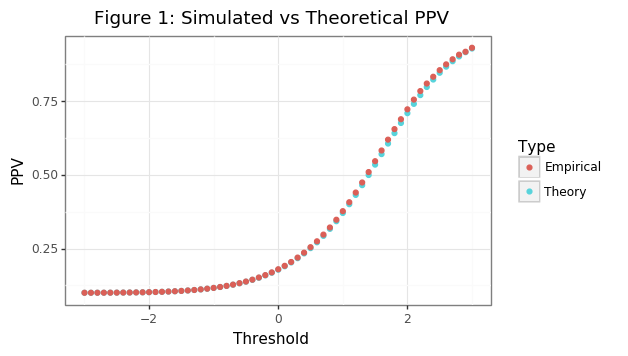
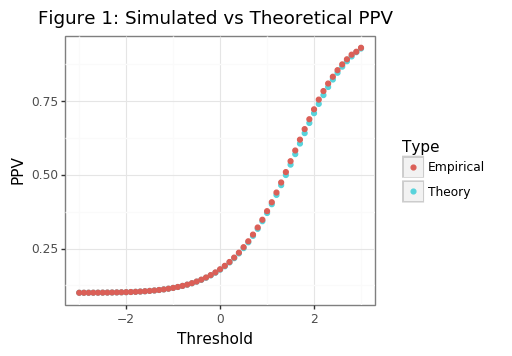
applying cleaner

diff --git a/_rmd/extra_reit/fix_kramdown.py b/_rmd/extra_reit/fix_kramdown.py
@@ -4,7 +4,7 @@ REPLACE ALL $...$ WITH \\(...\\)
 
 import os
 import pandas as pd
-import re
+from datetime import datetime
 
 dir_base = os.getcwd()
 dir_posts = os.path.join(dir_base, '..', '..', '_posts')
@@ -13,9 +13,11 @@ if not os.path.exists(dir_output):
     os.mkdir(dir_output)
 
 fn_posts = pd.Series(os.listdir(dir_posts))
-fn_posts = fn_posts[fn_posts.str.contains('^[0-9]')].to_list()
+fn_posts = fn_posts[fn_posts.str.contains('^[0-9]')]
+date_posts = pd.to_datetime(fn_posts.str.split('\\-[A-Za-z]',1,True).iloc[:,0])
+yy_mm = pd.to_datetime('2020-09-01') #str(datetime.today().year)+'-'+str(datetime.today().month)+'-01'
+fn_posts = fn_posts[date_posts >= yy_mm].to_list()
 
-holder = []
 for ii, fn in enumerate(fn_posts):
     print('Post: %s (%i of %i)' % (fn, ii+1, len(fn_posts)))
     connection = open(os.path.join(dir_posts, fn), 'r')
@@ -33,7 +35,6 @@ for ii, fn in enumerate(fn_posts):
                 lines[kk] = eq.replace('\\label', rep)
             else:
                 print('Already has tag')
-
     # Remove double $ dollars temporarily
     lines = lines.str.replace('\\${2}', '@@')
     # Replace currency dollar signs

diff --git a/_rmd/extra_BCa/bca_python.md b/_rmd/extra_BCa/bca_python.md
@@ -1,11 +1,4 @@
----
-title: "Implementing the bias-corrected and accelerated bootstrap in Python"
-output: html_document
-fontsize: 12pt
-published: true
-status: publish
-mathjax: true
----
+# Implementing the BCa Bootstrapping in Python
 
 The [bootstrap](https://en.wikipedia.org/wiki/Bootstrapping_(statistics)) is a powerful tool for carrying out inference on statistics whose distribution is unknown. The non-parametric version of the bootstrap obtains variation around the point estimate of a statistic by randomly resampling the data with replacement and recalculating the bootstrap-statistic based on these resamples. This simulated distribution can be used to obtain (close-to) valid frequentist inference measures like p-values and confidence intervals (CIs). This post will show how to implement the bias-corrected and accelerated ([BCa](https://www.tandfonline.com/doi/abs/10.1080/01621459.1987.10478410)) bootstrap to calculate either one and two-sided CIs. A good discussion of bootstrapped p-values can be found [here](http://qed.econ.queensu.ca/working_papers/papers/qed_wp_1127.pdf). Nathaniel Helwig's excellent class [notes](http://users.stat.umn.edu/~helwig/notes/bootci-Notes.pdf) are used or paraphrased throughout this post.
 
@@ -15,9 +8,9 @@ The motivating example for this post will be to estimate the threshold for deter
 
 # (1) Background
 
-To begin I'll establish the notation that will be used through the rest of the post. Define the statistic of interest as \\(\theta = s(X)\\), where \\(X_i \sim F\\) from IID draws. The statistic \\(s\\) can be anything like the mean, median, skew, PPV, etc. Of course, if we knew the cdf \\(F\\), one could simply sample from it and estimate \\(\theta\\) by appealing to the law of large numbers. However researchers almost never know the distribution the data comes from, and if they do, the exact parameters of the distribution are unknown. Instead we can use an empirical draw of the data: \\(\hat{X} = (X_1, \dots, X_n)\\) to approximate the actual CDF: \\(\hat{F}(\hat{X} \leq x) \approx F(X \leq x)\\). From the [Glivenko-Cantelli theorem](https://en.wikipedia.org/wiki/Glivenko%E2%80%93Cantelli_theorem) we know that as \\(n \to \infty\\), the empirical CDF (ECDF) approaches the true CDF.
+To begin I'll establish the notation that will be used through the rest of the post. Define the statistic of interest as $\theta = s(X)$, where $X_i \sim F$ from IID draws. The statistic $s$ can be anything like the mean, median, skew, PPV, etc. Of course, if we knew the cdf $F$, one could simply sample from it and estimate $\theta$ by appealing to the law of large numbers. However researchers almost never know the distribution the data comes from, and if they do, the exact parameters of the distribution are unknown. Instead we can use an empirical draw of the data: $\hat{X} = (X_1, \dots, X_n)$ to approximate the actual CDF: $\hat{F}(\hat{X} \leq x) \approx F(X \leq x)$. From the [Glivenko-Cantelli theorem](https://en.wikipedia.org/wiki/Glivenko%E2%80%93Cantelli_theorem) we know that as $n \to \infty$, the empirical CDF (ECDF) approaches the true CDF.
 
-Using the ECDF from a given draw of data as an estimate of \\(F\\), means using the CDF of a discrete random variable. This non-parametric approximation naturally creates some estimation error, but for a reasonably sized \\(n\\) it will be small. When  bootstrapping is referred to "sampling with replacement", it is actually referring to sampling from the ECDF. Since this is a discrete distribution it means that some values can be sampled more than once. Draws for the ECDF, or bootstrapped samples, will be denoted as follows:
+Using the ECDF from a given draw of data as an estimate of $F$, means using the CDF of a discrete random variable. This non-parametric approximation naturally creates some estimation error, but for a reasonably sized $n$ it will be small. When  bootstrapping is referred to "sampling with replacement", it is actually referring to sampling from the ECDF. Since this is a discrete distribution it means that some values can be sampled more than once. Draws for the ECDF, or bootstrapped samples, will be denoted as follows:
 
 $$
 \begin{align*}
@@ -27,18 +20,18 @@ X_1^*, \dots, X_n^* &\sim \hat{F}  \\
 \end{align*}
 $$
 
-The PPV is the ratio of the true positive rate (TPR) to the predicted positive rate (which includes the false positive rate (FPR)), weighted by the prevalence of the binary outcome: \\(\mu_y = E[y==1]\\). In this post we will assume that the scores of the classifier come from a normal distribution: \\(x|y=i \sim N(\mu_i,\sigma_i^2)\\), for \\(i=[1,2]\\). The distribution for the ground-truth PPV will be smooth and monotonically increasing over \\(t\\) since \\(\mu_y\\) is fixed, as defined by \eqref{eq:PPV_true}. However, its empirical estimate will necessarily by discontinuous, and not even necessarily monotonic! This is because the count of the number of TPs and FPs is used rather than the theoretical CDF and prevalence. Note that \\(\Phi\\) refers to the standard normal CDF.
+The PPV is the ratio of the true positive rate (TPR) to the predicted positive rate (which includes the false positive rate (FPR)), weighted by the prevalence of the binary outcome: $\mu_y = E[y==1]$. In this post we will assume that the scores of the classifier come from a normal distribution: $x|y=i \sim N(\mu_i,\sigma_i^2)$, for $i=[1,2]$. The distribution for the ground-truth PPV will be smooth and monotonically increasing over $t$ since $\mu_y$ is fixed, as defined by \eqref{eq:PPV_true}. However, its empirical estimate will necessarily by discontinuous, and not even necessarily monotonic! This is because the count of the number of TPs and FPs is used rather than the theoretical CDF and prevalence. Note that $\Phi$ refers to the standard normal CDF.
 
 $$
 \begin{align*}
-\text{PPV}_\Phi(t) &= \frac{\Phi_1(t)\cdot\mu_y}{\Phi_1\cdot\mu_y + \Phi_0\cdot(1-\mu_y)} \tag{1}\label{eq:PPV_true} \\
+\text{PPV}_\Phi(t) &= \frac{\Phi_1(t)\cdot\mu_y}{\Phi_1\cdot\mu_y + \Phi_0\cdot(1-\mu_y)} \label{eq:PPV_true} \\
 \Phi_1(t) &= \Phi([\mu_1 - t]/\sigma_1), \hspace{3mm} \Phi_0(t) = \Phi([\mu_0 - t]/\sigma_0) \\
 \hat{\text{PPV}}(t) &= \frac{NTP(t)}{NTP(t) + NFP(t)} \\
 NTP(t) &= \sum_{i: y_i =1} y_i \geq t, \hspace{3mm} NFP(t) = \sum_{i: y_i =0} y_i \geq t
 \end{align*}
 $$
 
-The codeblock below loads in the necessary modules and shows that the theoretical PPV aligns with the average empirical PPV across different thresholds (\\(t\\)).
+The codeblock below loads in the necessary modules and shows that the theoretical PPV aligns with the average empirical PPV across different thresholds ($t$).
 
 
 ```python
@@ -110,7 +103,7 @@ for ii in range(nsim):
     
 df_sim = pd.DataFrame({'thresh':thresh_seq, 'theory':theory_seq, 'emp':np.nanmean(mat,0)}).melt('thresh',None,'tt')
 
-plotnine.options.figure_size = (5.5, 3.5)
+plotnine.options.figure_size = (4, 3.5)
 gg_theory = (ggplot(df_sim, aes(x='thresh', y='value', color='tt')) + theme_bw() + 
             geom_point() + labs(x='Threshold', y='PPV') + 
             ggtitle('Figure 1: Simulated vs Theoretical PPV') + 
@@ -125,33 +118,48 @@ yy, xx = tuple(df_ex.query('ppv<0.4').tail(1).values.flatten())
 yend, xend = tuple(df_ex.query('ppv>0.4').head(1).values.flatten())
 xstar = (0.4-yy)/((yend - yy)/(xend - xx))+xx
 
-plotnine.options.figure_size = (5,3.5)
+plotnine.options.figure_size = (4,3.5)
 gg_ppv_ex = (ggplot(df_ex.query('thresh>0.5 & thresh<1.5 & ppv>0.25 & ppv<0.5 & ppv!=0.4'),aes(x='thresh',y='ppv')) + 
              theme_bw() + geom_step() + 
             labs(x='Threshold', y='PPV') + 
-            ggtitle('Figure 2: Example of empirical PPV interpolation for 40% PPV target') + 
+            ggtitle('Figure 2: Empirical PPV interpolation (40% PPV target)') + 
             geom_segment(x=xx,xend=xend,y=yy,yend=yend,color='red') + 
             geom_hline(yintercept=0.4,color='blue',linetype='--') + 
             geom_vline(xintercept=xstar,color='darkgreen',linetype='--'))
 print(gg_ppv_ex)
 ```
 
-<p align="center"><img src="/figures/bca_python_1_0.png" width="75%"></p>
-<p align="center"><img src="/figures/bca_python_1_2.png" width="75%"></p>
+
+    
+![png](bca_python_files/bca_python_1_0.png)
+    
+
+
+    <ggplot: (8766715431621)>
+
+
+
+    
+![png](bca_python_files/bca_python_1_2.png)
+    
+
+
+    <ggplot: (8766715866737)>
+
 
 Though the asymptotic PPV curve is smooth (see Figure 1), the empirical PPV has is non-smooth (as Figure 2 shows). Our statistic of interest will be the value of the threshold that is needed to meet a targeted PPV. For the PPV curve, this amounts to the following:
 
 $$
 \begin{align*}
-t^*(p) &= \Big\{\inf_t : PPV(t)=p  \Big\} \tag{2}\label{eq:tstar}
+t^*(p) &= \Big\{\inf_t : PPV(t)=p  \Big\} \label{eq:tstar}
 \end{align*}
 $$
 
 Note that we want \eqref{eq:tstar} to find the infimum of thresholds since if there are two distinct thresholds that obtain the same PPV, the smaller one will have a higher senitivity. For the empirical curve, the threshold will need to be interpolated when the targeted value cannot be found. For example, if the targeted PPV is 0.5, but the closest values we can find are PPVs of 0.49 and 0.54, for threshold values of 1 and 2, respectively, then a linear interpolation will estimate a threshold of 1.2. In the case where the targeted PPV is larger than the largest empirical PPV, an interpolation will also be used. However it is not advised to pick PPVs that are generally beyond the range of the classifier because these estimates will be noisy.
 
-The `thresh_ppv` function below also has a built-it [Jackknife](https://en.wikipedia.org/wiki/Jackknife_resampling) estimate of the statistic, since these will be required later. The Jackknife calculates the statistic by leaving one sample value, so there are \\(n\\) estimates of it. Because the empirical PPV is discrete, deleting an observation whose value is below a given threshold will not affect the PPV and hence the choice of threshold. Deleting a positive label observation whose score is at or above the threshold will necessarily lower the PPV, and so we can interpolate the new slope/intercept position to obtain the original PPV. Similarly, deleting a negative observation will make whatever the the next smallest threshold is to the current one the optimal choice.[[^1]] It is exceedingly quick therefore to approximate the leave-one-observation out statistic for the PPV. 
+The `thresh_ppv` function below also has a built-it [Jackknife](https://en.wikipedia.org/wiki/Jackknife_resampling) estimate of the statistic, since these will be required later. The Jackknife calculates the statistic by leaving one sample value, so there are $n$ estimates of it. Because the empirical PPV is discrete, deleting an observation whose value is below a given threshold will not affect the PPV and hence the choice of threshold. Deleting a positive label observation whose score is at or above the threshold will necessarily lower the PPV, and so we can interpolate the new slope/intercept position to obtain the original PPV. Similarly, deleting a negative observation will make whatever the the next smallest threshold is to the current one the optimal choice.[[^1]] It is exceedingly quick therefore to approximate the leave-one-observation out statistic for the PPV. 
 
-Note the `draw_samp` function, which draws data with replacement, can make use of the `strafify` argument. Normally one would want to make use of the variation in the label prevalence, however, since this post is inspired by a validation trial for a machine learning algorithm, it is likely that the label balance is already known with a high degree of confidence. Lastly, because there can be discontinuities in the data, the `thresh_ppv` function will always try to find the infimum of values, because we know on a statistical level the relationship should be monotonic (for reasonable assumptions about the distribution of \\(\Phi_0\\) and \\(\Phi_1\\).
+Note the `draw_samp` function, which draws data with replacement, can make use of the `strafify` argument. Normally one would want to make use of the variation in the label prevalence, however, since this post is inspired by a validation trial for a machine learning algorithm, it is likely that the label balance is already known with a high degree of confidence. Lastly, because there can be discontinuities in the data, the `thresh_ppv` function will always try to find the infimum of values, because we know on a statistical level the relationship should be monotonic (for reasonable assumptions about the distribution of $\Phi_0$ and $\Phi_1$.
 
 
 ```python
@@ -301,23 +309,35 @@ gg_bs = (ggplot(dat2_both,aes(x='value',fill='tt')) + theme_bw() + guides(color=
 print(gg_bs)
 ```
 
-<br>
-<p align="center"><img src="/figures/bca_python_5_0.png" width="90%"></p>
-<br>
-<p align="center"><img src="/figures/bca_python_5_2.png" width="100%"></p>
-<br>   
+
+    
+![png](bca_python_files/bca_python_5_0.png)
+    
+
+
+    <ggplot: (8766757080797)>
+
+
+
+    
+![png](bca_python_files/bca_python_5_2.png)
+    
+
+
+    <ggplot: (8766756878801)>
+
 
 Figure 3 shows the range of thresholds that would be chosen by the `thresh_PPV` function for PPV different targets, along with the different realizations of the empirical PPV curves. The second figure takes the last draw of the data in the simulation and shows the variation in the threshold statistics generated in that bootstrapping instance. Unsurprisingly the latter has more variation, since the empirical PPV for this data is noisier. Figure 4 compares the distribution of a bootstrap instance with those of the point estimates from the simulation. Note these distributions are not statistically comparable, since the DGP is the true variation and the bootstrap distribution only comes from one example. The inference procedures needed to obtain statistically meaningful insights from the bootstrap distribution are be described below.
 
 ## (2) Bootstrapping approaches
 
-The statistical quality of a bootstrap CI is determined by its coverage. For example, a two-sided confidence interval of level \\(1-\alpha\\)  has the "right" coverage when:
+The statistical quality of a bootstrap CI is determined by its coverage. For example, a two-sided confidence interval of level $1-\alpha$  has the "right" coverage when:
 
 $$
 P(\theta_l \leq \theta \leq  \theta_u) = c = 1-\alpha
 $$
 
-If \\(c > 1-\alpha\\), then the CI is said to be conservative because it under-rejects the true null. Though it is better to be conservative than to over-reject the null, it is still problematic because the test will have less power than expected. In the case of a one-sided CI, proper coverage will entail:
+If $c > 1-\alpha$, then the CI is said to be conservative because it under-rejects the true null. Though it is better to be conservative than to over-reject the null, it is still problematic because the test will have less power than expected. In the case of a one-sided CI, proper coverage will entail:
 
 $$
 \begin{align*}
@@ -326,9 +346,9 @@ P(\theta_u \geq \theta) &= 1-\alpha,
 \end{align*}
 $$
 
-Depending on whether it is an upper or lower bound. One-sided CIs are used when the direction of statistic is known. Using the running example of the PPV, if the researcher wants to establish that the PPV as *at least* some amount, say 50%, then it would be desirable to find a upper-bound of the threshold, \\(t_u\\) such that: \\(P(t_u \geq t^{*}(p)) = 1-\alpha\\). If \\(t_u > t^{*}(p)\\) from \eqref{eq:tstar}, then \\(PPV_\Phi(t_u) > p\\) from \eqref{eq:PPV_true}. 
+Depending on whether it is an upper or lower bound. One-sided CIs are used when the direction of statistic is known. Using the running example of the PPV, if the researcher wants to establish that the PPV as *at least* some amount, say 50%, then it would be desirable to find a upper-bound of the threshold, $t_u$ such that: $P(t_u \geq t^{*}(p)) = 1-\alpha$. If $t_u > t^{*}(p)$ from \eqref{eq:tstar}, then $PPV_\Phi(t_u) > p$ from \eqref{eq:PPV_true}. 
 
-There are several reasons why the bootstrap distribution of statistics will not provide the right coverage. First, the ECDF is an approximation of the CDF which introduces sampling error. Second, the bootstrap statistic may be biased. When the average of the bootstrapped statistics will differ in expectation to the original statistic \\(E[\bar\theta^* - \hat\theta] \neq 0\\), the bootstrap is said to be biased. This phenomenon can arise for any statistic with [finite-sample bias](https://en.wikipedia.org/wiki/Bias_of_an_estimator). Since sampling with replacement is equivalent to generating a statistic with fewer observations, finite sampling bias will be seen indirectly through this mechanism.[[^2]] Third, the distribution of a (bootstrapped) statistic may be [skewed](https://en.wikipedia.org/wiki/Skewness), which will cause symmetric CIs to be erroneous. 
+There are several reasons why the bootstrap distribution of statistics will not provide the right coverage. First, the ECDF is an approximation of the CDF which introduces sampling error. Second, the bootstrap statistic may be biased. When the average of the bootstrapped statistics will differ in expectation to the original statistic $E[\bar\theta^* - \hat\theta] \neq 0$, the bootstrap is said to be biased. This phenomenon can arise for any statistic with [finite-sample bias](https://en.wikipedia.org/wiki/Bias_of_an_estimator). Since sampling with replacement is equivalent to generating a statistic with fewer observations, finite sampling bias will be seen indirectly through this mechanism.[[^2]] Third, the distribution of a (bootstrapped) statistic may be [skewed](https://en.wikipedia.org/wiki/Skewness), which will cause symmetric CIs to be erroneous. 
 
 ### Approach #1: CI with BS-standard error
 
@@ -340,11 +360,11 @@ $$
 \end{align*}
 $$
 
-The variance of the statistic \\(\sigma\\) is simply estimated from the bootstrapped samples. Note that a student-t distribution  with \\(n-1\\) degrees of freedom is used for the quantile since the value of the standard error is estimated rather than known. The drawbacks with this approach are first that it assumes the statistic has a normal distribution, and second that it is symmetric. Many statistics (such as the PPV threshold) will neither be normal nor symmetric.
+The variance of the statistic $\sigma$ is simply estimated from the bootstrapped samples. Note that a student-t distribution  with $n-1$ degrees of freedom is used for the quantile since the value of the standard error is estimated rather than known. The drawbacks with this approach are first that it assumes the statistic has a normal distribution, and second that it is symmetric. Many statistics (such as the PPV threshold) will neither be normal nor symmetric.
 
 ### Approach #2: Quantile Bootstrap
 
-If we rank order the realizations of the bootstrap statistics: \\(\theta^*_{(1)} \leq \theta^*_{(2)} \leq \dots \leq \theta^*_{(n)}\\), then the quantile bootstrap simply returns the empirical quantiles for the \\(\alpha/2\\) and \\(1-\alpha/2\\) percentiles as the confidence intervals.
+If we rank order the realizations of the bootstrap statistics: $\theta^*_{(1)} \leq \theta^*_{(2)} \leq \dots \leq \theta^*_{(n)}$, then the quantile bootstrap simply returns the empirical quantiles for the $\alpha/2$ and $1-\alpha/2$ percentiles as the confidence intervals.
 
 $$
 \begin{align*}
@@ -366,7 +386,8 @@ $$
 \end{align*}
 $$
 
-There are two terms which need to be estimated when using the BCa: 1) the acceleration parameter \\(\hat{a}\\), and 2) the bias-correction factor \\(\hat{z}_0\\). The other terms are deterministic: (\\(\Phi\\) and \\(z_\alpha=\Phi^{-1}(\alpha)\\)). Notice if the acceleration and bias correction factors are zero, then \\(l=\alpha_1=\alpha\\) and \\(u=\alpha_2=1-\alpha\\), which is equivalent to the quantile bootstrap.[[^3]] 
+There are two terms which need to be estimated when using the BCa: 1) the acceleration parameter $\hat{a}$, and 2) the bias-correction factor $\hat{z}_0$. The other terms are deterministic: ($\Phi$ and $z_\alpha=\Phi^{-1}(
+\alpha)$). Notice if the acceleration and bias correction factors are zero, then $l=\alpha_1=\alpha$ and $u=\alpha_2=1-\alpha$, which is equivalent to the quantile bootstrap.[[^3]] 
 
 $$
 \begin{align*}
@@ -380,7 +401,7 @@ Also note that the bias correction term is a count in the median bias (rather th
 
 ## (3) Simulation of PPV CIs
 
-In this section I will define the `bootstrap` class which will carry the three bootstrap-CI approaches discussed above. A simulation will then be run using the DGP discussed above with \\(\mu_0=0\\), \\(\mu_1=2\\), and \\(\sigma_0=\sigma_1=1\\).  
+In this section I will define the `bootstrap` class which will carry the three bootstrap-CI approaches discussed above. A simulation will then be run using the DGP discussed above with $\mu_0=0$, $\mu_1=2$, and $\sigma_0=\sigma_1=1$.  
 
 
 ```python
@@ -468,6 +489,12 @@ for ii in range(nsim):
     nleft, rate = nsim-(ii+1), (ii+1)/(time() - stime)
     print('ETA: %0.1f minutes' % (nleft/rate/60))
 res = pd.concat(store).melt(['alpha','sim','tt'],None,'method')
+#res.to_csv('res.csv',index=False)
+```
+
+
+```python
+res = pd.read_csv('res.csv')
 # Get ground truth threshold for 50% PPV
 thresh_ppv50 = minimize_scalar(fun=lambda x: (PPV_theory(x, mu0, mu1, prev)-target_ppv)**2).x
 res = res.assign(ppv=lambda x: PPV_theory(x.value, mu0, mu1, prev))
@@ -502,10 +529,39 @@ gg_inf = (ggplot(res_agg,aes(x='alpha2',y='mu',color='gg',shape='gg')) + theme_b
           ggtitle('Figure 5: CI coverage for PPV threshold'))
 gg_inf
 ```
+
+    /home/edrysdale/miniconda3/lib/python3.7/site-packages/ipykernel_launcher.py:36: RuntimeWarning: invalid value encountered in true_divide
+
+
+
     
-<p align="center"><img src="/figures/bca_python_9_1.png" width="90%"></p>
+![png](bca_python_files/bca_python_9_1.png)
+    
+
+
+
+
+
+    <ggplot: (8766715698169)>
+
+
 
 Figure 5 shows that only the BCa approach gets anywhere near the right coverage for the upper bound, and the other approaches are much too conservative. Interestingly even the BCa approach has a lower bound interval which is conservative. This likely stems from the obvious finite-sample bias that comes from the empirical PPV curve.
+
+
+```python
+# res_agg2 = res_agg.groupby(['method','alpha']).mu.sum().reset_index()
+# res_agg2 = res_agg2.assign(gg = lambda x: x.method.map(di_method))
+# plotnine.options.figure_size = (5.5,4)
+# gg_inf = (ggplot(res_agg2,aes(x='alpha',y='mu',color='gg')) + theme_bw() + 
+#           scale_color_discrete(name='Method') + geom_point(size=3) + 
+#           geom_abline(intercept=0,slope=1,color='blue',linetype='--') + 
+#           labs(x='Type-I error (theory)',y='Type-I error (actual)') + 
+#           scale_x_continuous(limits=[0,0.25],breaks=xx) + 
+#           scale_y_continuous(limits=[0,0.25],breaks=xx) + 
+#           ggtitle('Simulation'))
+# gg_inf
+```
 
 ## (4) Compare to ARCH
 
@@ -569,6 +625,12 @@ for ii in range(nsim):
         print('ETA: %0.1f minutes' % (nleft/rate/60))
 res_all = pd.concat(store).reset_index(None,True)
 res_all = res_all.melt(['sim','alpha','tt'],None,'method').assign(viol=lambda x: np.where(x.tt=='lb',x.value>1,x.value<1))
+#res_all.to_csv('res_all.csv', index=False)
+```
+
+
+```python
+res_all = pd.read_csv('res_all.csv')
 res_all_agg = res_all.groupby(['method','alpha','tt']).viol.apply(lambda x: pd.Series({'mu':x.mean(),'n':x.shape[0]})).reset_index()
 res_all_agg = res_all_agg.pivot_table('viol',['method','alpha','tt'],'level_3').reset_index().assign(n=lambda x: x.n.astype(int))
 res_all_agg = res_all_agg.assign(gg = lambda x: x.method.map(di_method)+', ('+x.tt.map(di_tt)+')',
@@ -590,23 +652,19 @@ gg_comp = (ggplot(res_all_agg,aes(x='alpha2',y='mu',color='gg',shape='gg')) + th
 gg_comp
 ```
 
-<br>
-<p align="center"><img src="/figures/bca_python_14_0.png" width="90%"></p>
-<br>
+
+    
+![png](bca_python_files/bca_python_14_0.png)
+    
+
+
+
+
+
+    <ggplot: (8766715455761)>
+
+
 
 Figure 6 shows that the BCa approach yields (virtually) identical estimate to the one obtainable from the `arch` package. Since the estimate of the variance is skewed, it also shows the superiority of the BCa method over the simpler bootstrapping approaches since ther coverage for both lower and upper bounds is close to the expected level.
 
 Most researchers that use the bootstrap to carry out inference on a statistic should probably be using the BCa approach. When the Jackknife estimator can be implemented effeciently, there is almost no additional computational overhead for using the BCa and it obtains an empirical coverage much closer to the expected level. Beyond sample means, most statistics show some form of skew or bias meaning the symmetric standard-error or quantile approach will be suboptimal. The BCa not only helps to remedy these problems, it gives researcher estimates that are much more efficient.
-
-<br>
-
-* * * 
-
-### Footnotes
-
-[^1]: To see why this is *usually* the case, suppose at \\(t=2\\) there are 4 TPs and 8 FPs, so PPV=4/12. If \\(t=1.8\\) was the next smallest threshold in which an false positive was in the numerator and denominator, then there would be 13 observations in the denominator (5/13). Now if the the one observation is deleted by the Jackknife, then this return to 4/12, which was the original statistic. Now of course the observation that is dropped between going from 1.8 to 2 could have been a TP in which case the statistic would actually be 5/12, but since it is reasonable to assume that an increase in the threshold increases the PPV, I opt for the simpler approximation. 
-
-[^2]: In other words we expect the full sample \\(\hat\theta\\) to be closer to the true value than the average of its bootstrap samples. 
-
-[^3]: I am ignoring dividing \\(\alpha\\) by two in the subscripts here for notational simplicity. 
-
